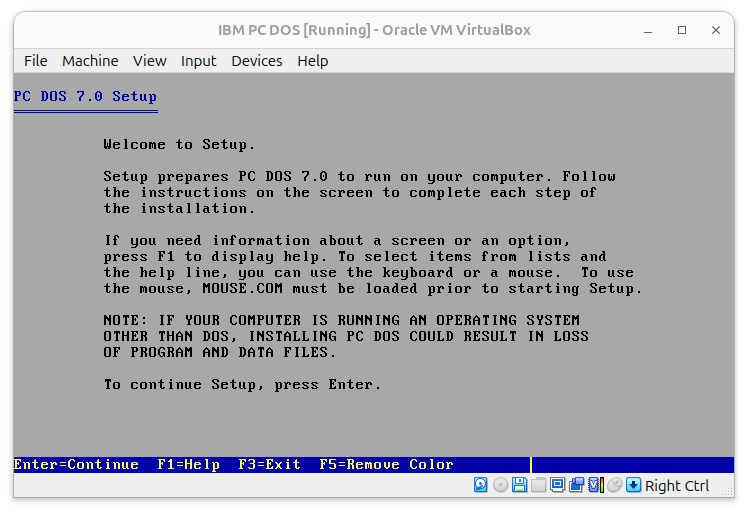
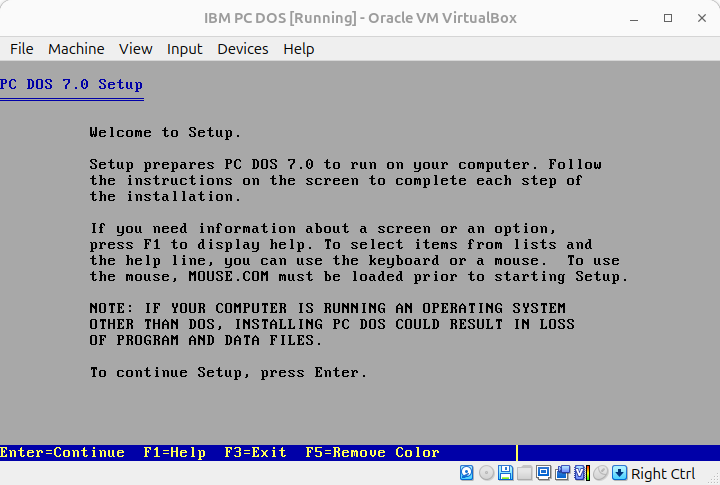
Changed the footer for each page. Cropped an image.

Changed region(s): [[0.0, 0.0, 1.0, 1.0], [0.1222, 0.4639, 0.8556, 0.7113], [0.1222, 0.7423, 0.5194, 0.7732]]

diff --git a/autoexec.html b/autoexec.html
@@ -51,6 +51,6 @@ ECHO Welcome! Ready to receive a command.
 </textarea>
         <!-- Footer Below -->
         <hr />
-        <p>Copyright ClassicAdam, 2026</p>
+        <p><i>Copyright ClassicAdam, 1990</i></p>
     </body>
 </html>

diff --git a/freebasic.html b/freebasic.html
@@ -23,6 +23,6 @@
 
         <!-- Footer Below -->
         <hr />
-        <p>Copyright ClassicAdam, 2026</p>
+        <p><i>Copyright ClassicAdam, 1990</i></p>
     </body>
 </html>

diff --git a/index.html b/index.html
@@ -24,6 +24,6 @@
         <p>In keeping with the retro and nostalgia theme, this site was made in an authentic HTML 3 era style.</p>
         <!-- Footer Below -->
         <hr />
-        <p>Copyright ClassicAdam, 2026</p>
+        <p><i>Copyright ClassicAdam, 1990</i></p>
     </body>
 </html>

diff --git a/links.html b/links.html
@@ -53,6 +53,6 @@
         </p>
         <!-- Footer Below -->
         <hr />
-        <p>Copyright ClassicAdam, 2026</p>
+        <p><i>Copyright ClassicAdam, 1990</i></p>
     </body>
 </html>

diff --git a/pics.html b/pics.html
@@ -29,6 +29,6 @@
         </p>
         <!-- Footer Below -->
         <hr />
-        <p>Copyright ClassicAdam, 2026</p>
+        <p><i>Copyright ClassicAdam, 1990</i></p>
     </body>
 </html>

diff --git a/programs.html b/programs.html
@@ -22,6 +22,6 @@
         <p>I'll highlight some DOS programs that I recommend or use myself here.</p>
         <!-- Footer Below -->
         <hr />
-        <p>Copyright ClassicAdam, 2026</p>
+        <p><i>Copyright ClassicAdam, 1990</i></p>
     </body>
 </html>

diff --git a/stories.html b/stories.html
@@ -30,6 +30,6 @@
             <p>The end.</p>
         <!-- Footer Below -->
         <hr />
-        <p>Copyright ClassicAdam, 2026</p>
+        <p><i>Copyright ClassicAdam, 1990</i></p>
     </body>
 </html>